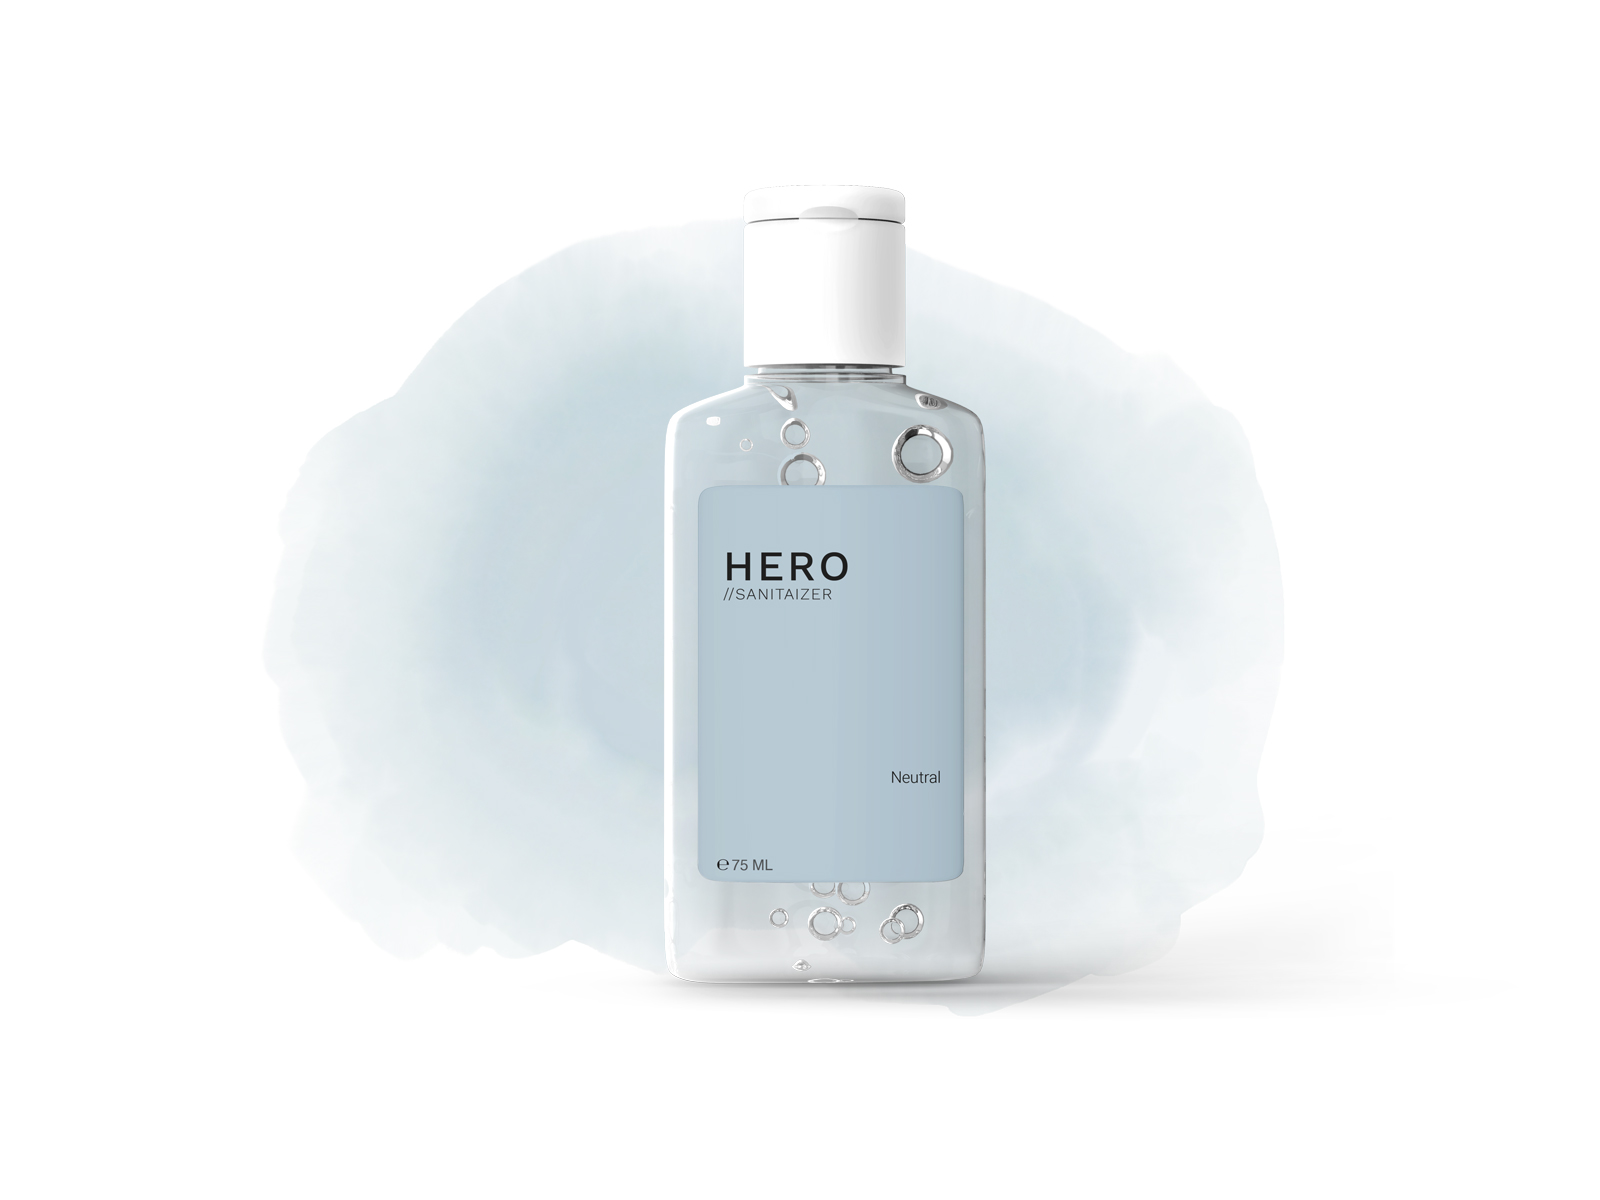
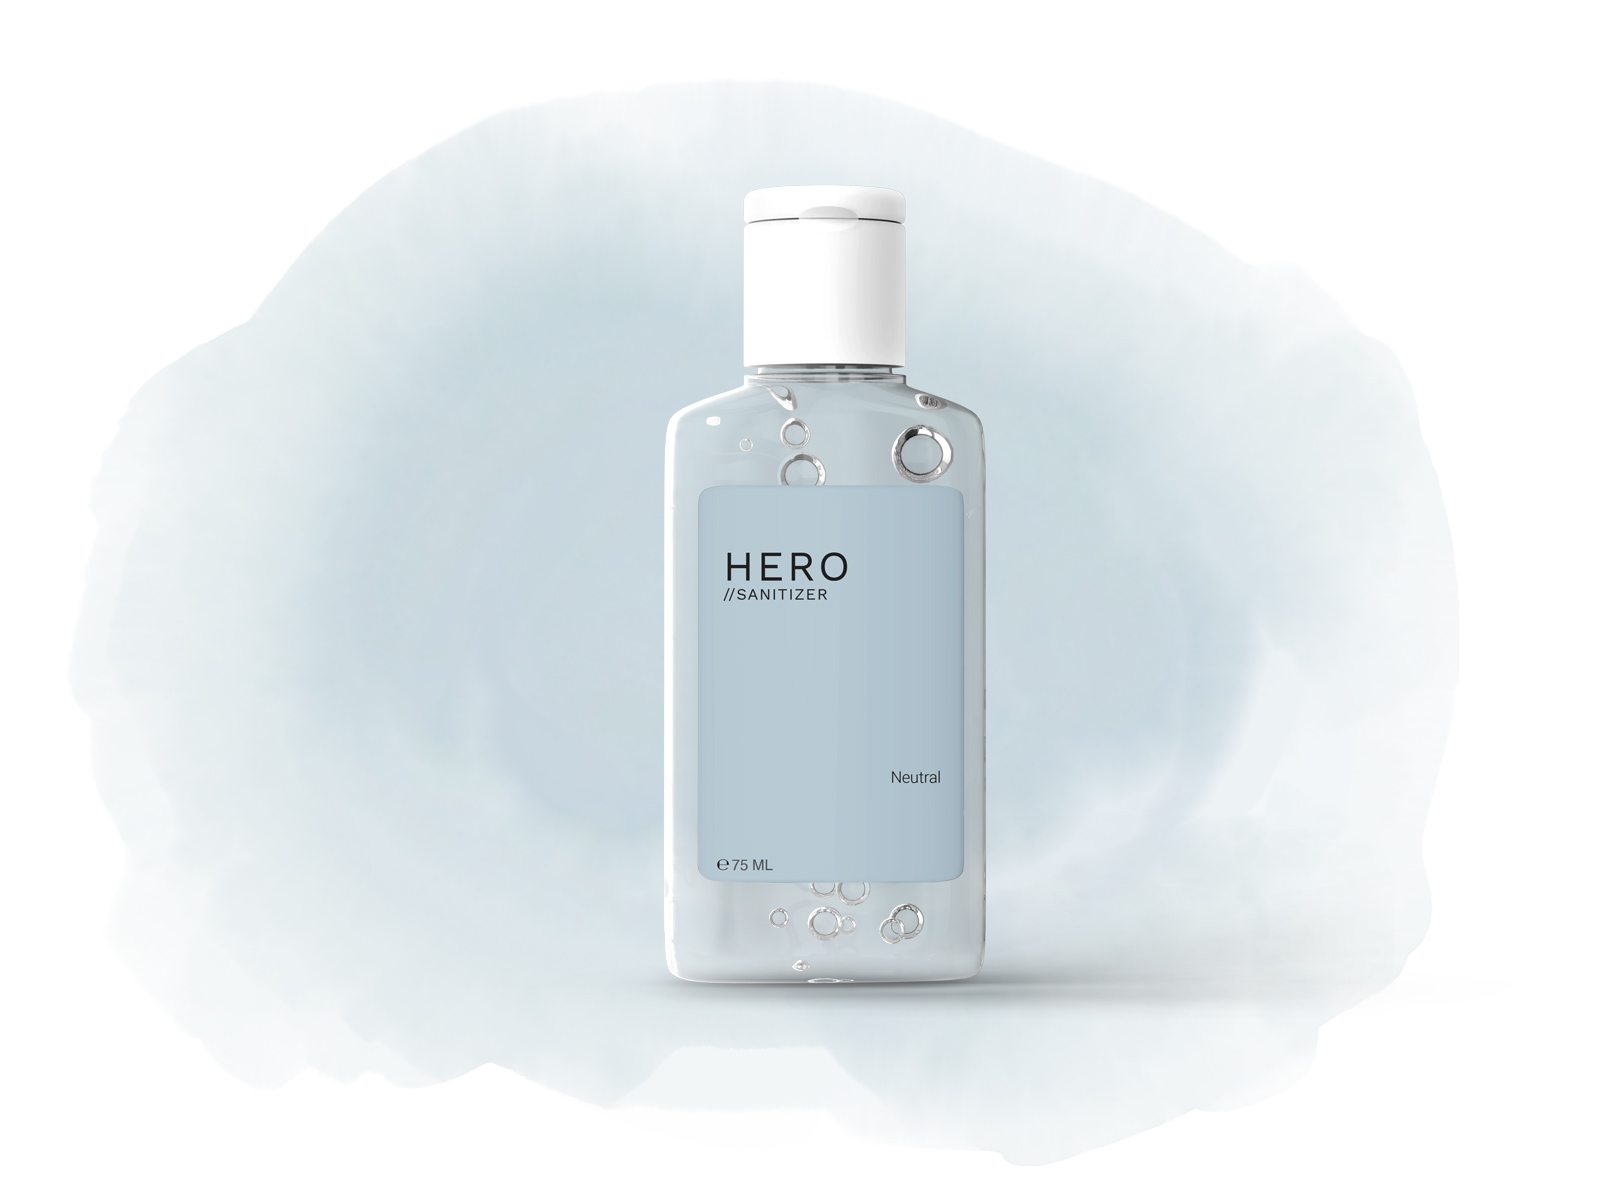
2nd commit test

diff --git a/index.html b/index.html
@@ -16,7 +16,7 @@
 </head>
 
 <body>
-    <nav class="navbar navbar-expand-md sticky-top">
+    <nav class="navbar navbar-expand-md bg-white sticky-top">
         <div class="container-fluid">
             <button class="navbar-toggler" type="button" data-toggle="collapse" data-target="#navbarNav" aria-controls="navbarNav" aria-expanded="false" aria-label="Toggle navigation">
                 <span class="navbar-toggler-icon"></span>
@@ -24,11 +24,13 @@
             <div class="collapse navbar-collapse  d-md-flex justify-content-end" id="navbarNav">
                 <ul class="navbar-nav">
                     <li class="nav-item">
-                        <a class="nav-link" aria-current="page" href="#">Products //</a>
+                        <a class="nav-link" aria-current="page" href="#">Products </a>
                     </li>
+
                     <li class="nav-item">
-                        <a class="nav-link" href="#">About us //</a>
+                        <a class="nav-link" href="#">About us</a>
                     </li>
+
                     <li class="nav-item">
                         <a class="nav-link" href="#">Social Media</a>
                     </li>
@@ -162,4 +164,6 @@
     <script src="https://stackpath.bootstrapcdn.com/bootstrap/5.0.0-alpha2/js/bootstrap.bundle.min.js" integrity="sha384-BOsAfwzjNJHrJ8cZidOg56tcQWfp6y72vEJ8xQ9w6Quywb24iOsW913URv1IS4GD" crossorigin="anonymous"></script>
 
 
-</body></html>
+</body>
+
+</html>

diff --git a/style.css b/style.css
@@ -3,7 +3,7 @@
 }
 
 .hero {
-    background-image: url(img/hero-backroundimg.png);
+    background-image: url(img/hero_mobil.jpg);
     background-size: cover;
     height: 100vh;
     background-position: 50%;
@@ -55,4 +55,10 @@ span {
 footer {
     background: #cdc1b3;
     height: 15vh;
+}
+
+@media screen and (min-width: 768px) {
+    .hero {
+        background-image: url(img/hero_splash.jpg);
+    }
 }
